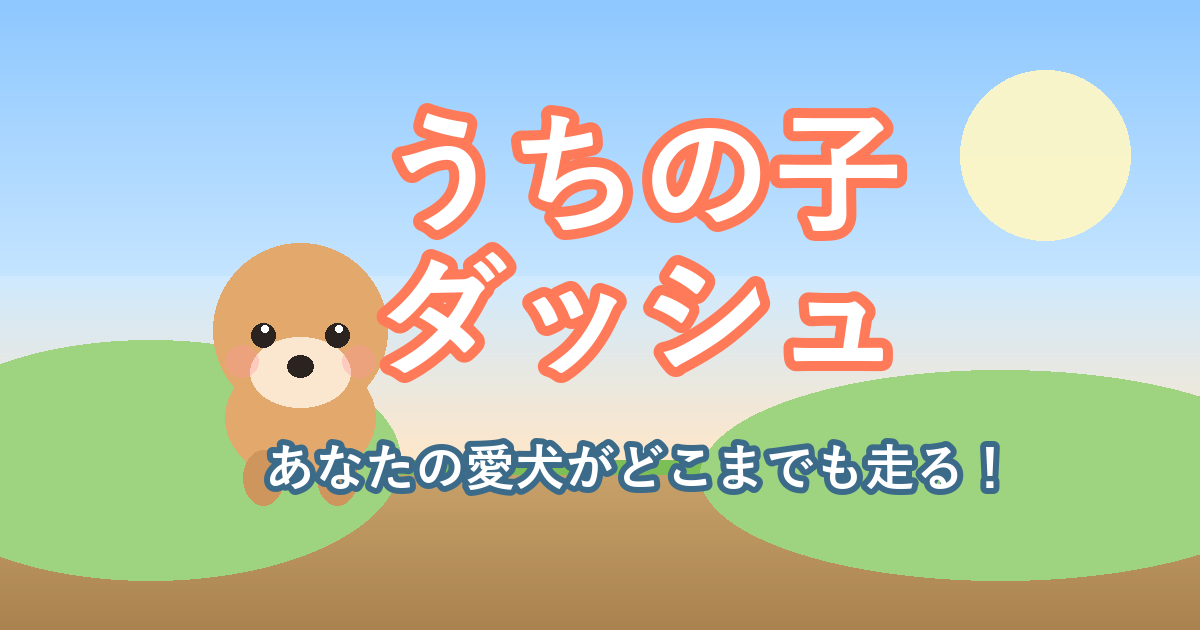
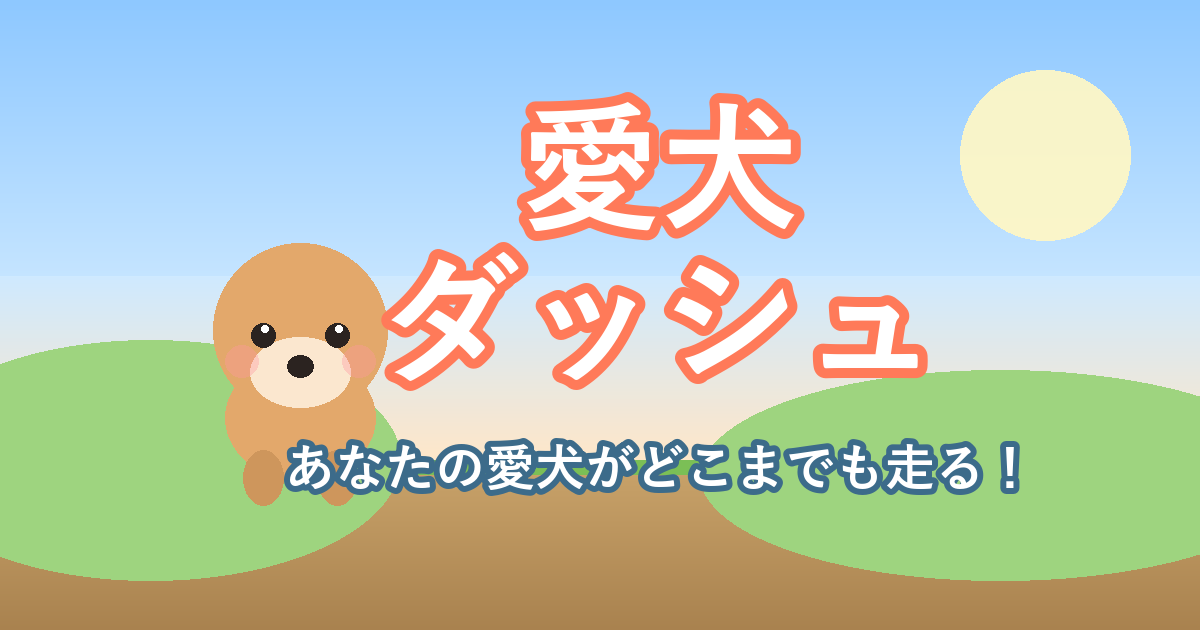
リブランド: 愛犬ダッシュ / パッケージ名 app.aikendash
- 表示名・OGP・READMEを「愛犬ダッシュ」に
- capacitor.config.json 追加（appId: app.aikendash）
- OGP画像差し替え、アセットを ?v=3 にキャッシュバスター

Changed region(s): [[0.3083, 0.1508, 0.7708, 0.6333], [0.2158, 0.6937, 0.8633, 0.7841]]

diff --git a/index.html b/index.html
@@ -4,27 +4,27 @@
   <meta charset="UTF-8" />
   <meta name="viewport" content="width=device-width, initial-scale=1.0, maximum-scale=1.0, user-scalable=no, viewport-fit=cover" />
   <meta name="theme-color" content="#9bd0ff" />
-  <title>うちの子ダッシュ</title>
-  <meta name="description" content="あなたの愛犬の写真で遊ぶ、タップでジャンプのランゲーム。うちの子がどこまでも走る！" />
+  <title>愛犬ダッシュ</title>
+  <meta name="description" content="あなたの愛犬の写真で遊ぶ、タップでジャンプのランゲーム。愛犬がどこまでも走る！" />
 
   <!-- OGP / Twitter Card -->
   <meta property="og:type" content="website" />
-  <meta property="og:site_name" content="うちの子ダッシュ" />
-  <meta property="og:title" content="うちの子ダッシュ" />
+  <meta property="og:site_name" content="愛犬ダッシュ" />
+  <meta property="og:title" content="愛犬ダッシュ" />
   <meta property="og:description" content="あなたの愛犬の写真で遊ぶ、タップでジャンプのランゲーム。どこまで走れる？" />
   <meta property="og:url" content="https://tmk4men.github.io/aiken-tobu/" />
-  <meta property="og:image" content="https://tmk4men.github.io/aiken-tobu/ogp.png?v=2" />
+  <meta property="og:image" content="https://tmk4men.github.io/aiken-tobu/ogp.png?v=3" />
   <meta property="og:image:width" content="1200" />
   <meta property="og:image:height" content="630" />
   <meta property="og:locale" content="ja_JP" />
   <meta name="twitter:card" content="summary_large_image" />
-  <meta name="twitter:title" content="うちの子ダッシュ" />
+  <meta name="twitter:title" content="愛犬ダッシュ" />
   <meta name="twitter:description" content="あなたの愛犬の写真で遊ぶ、タップでジャンプのランゲーム。" />
-  <meta name="twitter:image" content="https://tmk4men.github.io/aiken-tobu/ogp.png?v=2" />
+  <meta name="twitter:image" content="https://tmk4men.github.io/aiken-tobu/ogp.png?v=3" />
   <link rel="preconnect" href="https://fonts.googleapis.com" />
   <link rel="preconnect" href="https://fonts.gstatic.com" crossorigin />
   <link href="https://fonts.googleapis.com/css2?family=M+PLUS+Rounded+1c:wght@500;700;800;900&display=swap" rel="stylesheet" />
-  <link rel="stylesheet" href="style.css?v=2" />
+  <link rel="stylesheet" href="style.css?v=3" />
 </head>
 <body>
   <div id="stage">
@@ -37,7 +37,7 @@
       <div class="bokeh" aria-hidden="true"><i></i><i></i><i></i><i></i><i></i></div>
       <div class="title-inner">
         <canvas id="title-dog" width="200" height="200" class="title-dog"></canvas>
-        <h1 class="logo"><span class="logo-l1">うちの子</span><span class="logo-l2">ダッシュ</span></h1>
+        <h1 class="logo"><span class="logo-l1">愛犬</span><span class="logo-l2">ダッシュ</span></h1>
         <p class="lead">タップでジャンプ。どこまで走れる？</p>
         <div class="title-btns">
           <button id="btn-photo" class="btn primary"><span class="btn-ico">📷</span>写真でつくる</button>
@@ -103,9 +103,9 @@
   </div>
   </div>
 
-  <script src="js/characters.js?v=2"></script>
-  <script src="js/crop.js?v=2"></script>
-  <script src="js/game.js?v=2"></script>
-  <script src="js/main.js?v=2"></script>
+  <script src="js/characters.js?v=3"></script>
+  <script src="js/crop.js?v=3"></script>
+  <script src="js/game.js?v=3"></script>
+  <script src="js/main.js?v=3"></script>
 </body>
 </html>

diff --git a/js/main.js b/js/main.js
@@ -1,5 +1,5 @@
 /* =========================================================
-   main.js  ―  画面遷移と全体制御（うちの子ダッシュ）
+   main.js  ―  画面遷移と全体制御（愛犬ダッシュ）
    タイトル → (写真トリミング | キャラ選択) → プレイ → リザルト
    ========================================================= */
 (function () {
@@ -18,7 +18,7 @@
   }
 
   // ===== ハイスコア =====
-  const BEST_KEY = "uchinoko-dash-best";
+  const BEST_KEY = "aiken-dash-best";
   let best = parseInt(localStorage.getItem(BEST_KEY) || "0", 10);
   document.getElementById("title-best").textContent = best;
   Game.setBest(best);

diff --git a/README.md b/README.md
@@ -1,4 +1,4 @@
-# うちの子ダッシュ 🐕💨
+# 愛犬ダッシュ 🐕💨
 
 あなたの愛犬の写真（または用意したキャラ）が自動で走り続けるランゲーム。
 **タップでジャンプ**して障害物をよけ、骨🦴を拾いながら、どこまで走れるかを競います。
@@ -38,7 +38,7 @@ push するだけで自動反映されます（数十秒）。
 ```bash
 npm init -y
 npm install @capacitor/core @capacitor/cli @capacitor/android
-npx cap init "うちの子ダッシュ" com.example.uchinokodash --web-dir .
+# 設定は同梱の capacitor.config.json（appId: app.aikendash）を使うので init は不要
 npx cap add android
 npx cap sync
 npx cap open android